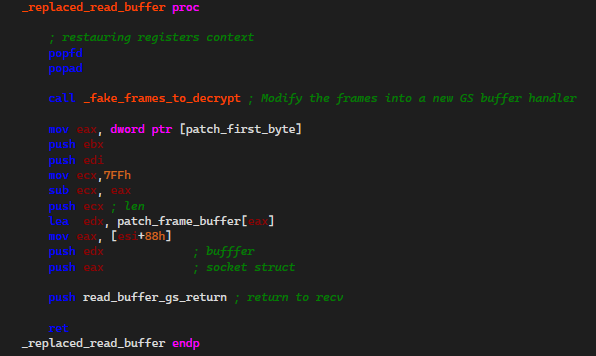
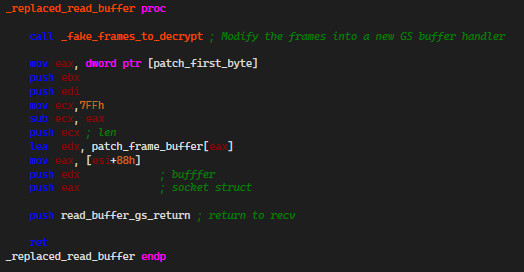
[+] Some fixies on assembly code, exception handlers and Article

Changed region(s): [[0.0305, 0.0882, 0.9771, 0.8529], [0.0, 0.8824, 0.3359, 1.0], [0.0, 0.0, 0.3359, 0.0588]]

diff --git a/code_base/Kurumi/Kurumi/dllmain.cpp b/code_base/Kurumi/Kurumi/dllmain.cpp
@@ -244,10 +244,8 @@ auto place_patchs(BF1942_GS_NETWORK* bf1942) -> void {
 
     uintptr_t uiReplacedFirstPatch = reinterpret_cast< uintptr_t >( replaced_read_buffer );
 
-    unsigned char chFirstPatch[29] = {
+    unsigned char chFirstPatch[27] = {
 
-        0x60, // pushad
-        0x9C, // pushfd
         0x68, 0x00, 0x00, 0x00, 0x00, // push address_of_replaced_read_buffer
         0xC3, // ret
         0x90,
@@ -276,7 +274,7 @@ auto place_patchs(BF1942_GS_NETWORK* bf1942) -> void {
 
     std::memcpy(
         
-        &*(chFirstPatch + 3),
+        &*(chFirstPatch + 1),
         &uiReplacedFirstPatch,
         sizeof(uintptr_t)
     
@@ -287,7 +285,7 @@ auto place_patchs(BF1942_GS_NETWORK* bf1942) -> void {
         ::GetCurrentProcess( ), 
         reinterpret_cast< LPVOID >( bf1942->pReadBuffer ),
         chFirstPatch,
-        29,
+        27,
         NULL
     
     );
@@ -296,10 +294,8 @@ auto place_patchs(BF1942_GS_NETWORK* bf1942) -> void {
         The second patch will replace before the gamespy decompress 2. and will call it from another place and replace the original buffer with
         by the decrypted buffer.
     */
-    unsigned char chSecondPatch[17] = {
+    unsigned char chSecondPatch[15] = {
 
-        0x60, // pushad
-        0x9C, // pushfd
         0x68, 0x00, 0x00, 0x00, 0x00, //push address_of_replaced_read_buffer
         0xC3, // ret
         0x90,
@@ -318,7 +314,7 @@ auto place_patchs(BF1942_GS_NETWORK* bf1942) -> void {
 
     std::memcpy(
         
-        &*(chSecondPatch + 3),
+        &*(chSecondPatch + 1),
         &uiReplacedSecondPatch,
         sizeof(uintptr_t)
     
@@ -329,7 +325,7 @@ auto place_patchs(BF1942_GS_NETWORK* bf1942) -> void {
         ::GetCurrentProcess( ),
         reinterpret_cast<void*>( bf1942->pGamespyDecompressRoutine ),
         chSecondPatch,
-        17,
+        15,
         NULL
     
     );

diff --git a/code_base/Kurumi/Kuromi/dllmain.cpp b/code_base/Kurumi/Kuromi/dllmain.cpp
@@ -73,6 +73,13 @@ auto place_patchs() -> void {
 
 auto WINAPI KewExceptionHandler(EXCEPTION_POINTERS* pExceptionInfo) -> NTSTATUS {
 
+    //Microsoft DRM calls Exception Handler Sometimes, we do not need to generate exception for that cases
+    MEMORY_BASIC_INFORMATION mb{ 0 };
+
+    ::VirtualQuery(::GetModuleHandle(L"Kuromi.dll"), &mb, sizeof(mb));
+
+    if (pExceptionInfo->ContextRecord->Eip < reinterpret_cast<DWORD>(mb.AllocationBase) || pExceptionInfo->ContextRecord->Eip > reinterpret_cast<DWORD>(mb.AllocationBase) + mb.RegionSize) return EXCEPTION_CONTINUE_EXECUTION;
+
     //Generating a MiniDump
     WCHAR wchPath[MAX_PATH]{ 0 };
     WCHAR wchFileName[MAX_PATH]{ 0 };

diff --git a/code_base/GamespyEmulator/readme.md b/code_base/GamespyEmulator/readme.md
@@ -769,11 +769,7 @@ Para uma maior estabilidade da solução proposta neste artigo, todos os módulo
 
 - Para o módulo Kurumi todos os MiniDumps são armazenados no diretório temporário em uma pasta apelidada de "KurumiBF1942", por exemplo: C:\Users\YOURUSER\AppData\Local\Temp\KurumiBF1942\.
 
-- Para o módulo Kuromi todos os MiniDumps são armazenados no diretório temporário em uma pasta apelidada de "KuromiHALOCE", por exemplo: C:\Users\YOURUSER\AppData\Local\Temp\KuromiHALOCE\.
-
-- Para o módulo Kuromi todos os MiniDumps são armazenados no diretório temporário em uma pasta apelidada de "KuromiHALOCE", por exemplo: C:\Users\YOURUSER\AppData\Local\Temp\KuromiHALOCE\.
-
-- Para o módulo XXXXXXXXX todos os MiniDumps são armazenados no diretório temporário em uma pasta apelidada de "XXXXXXXXX", por exemplo: C:\Users\YOURUSER\AppData\Local\Temp\XXXXXXXXX\.
+- Para o módulo Kuromi todos os MiniDumps são armazenados no diretório temporário em uma pasta apelidada de "KuromiGS2004", por exemplo: C:\Users\YOURUSER\AppData\Local\Temp\KuromiGS2004\.
 
 Todos os dumps são gerados com base no padrão Microsoft(momento do crash + prefixo dmp).
 
